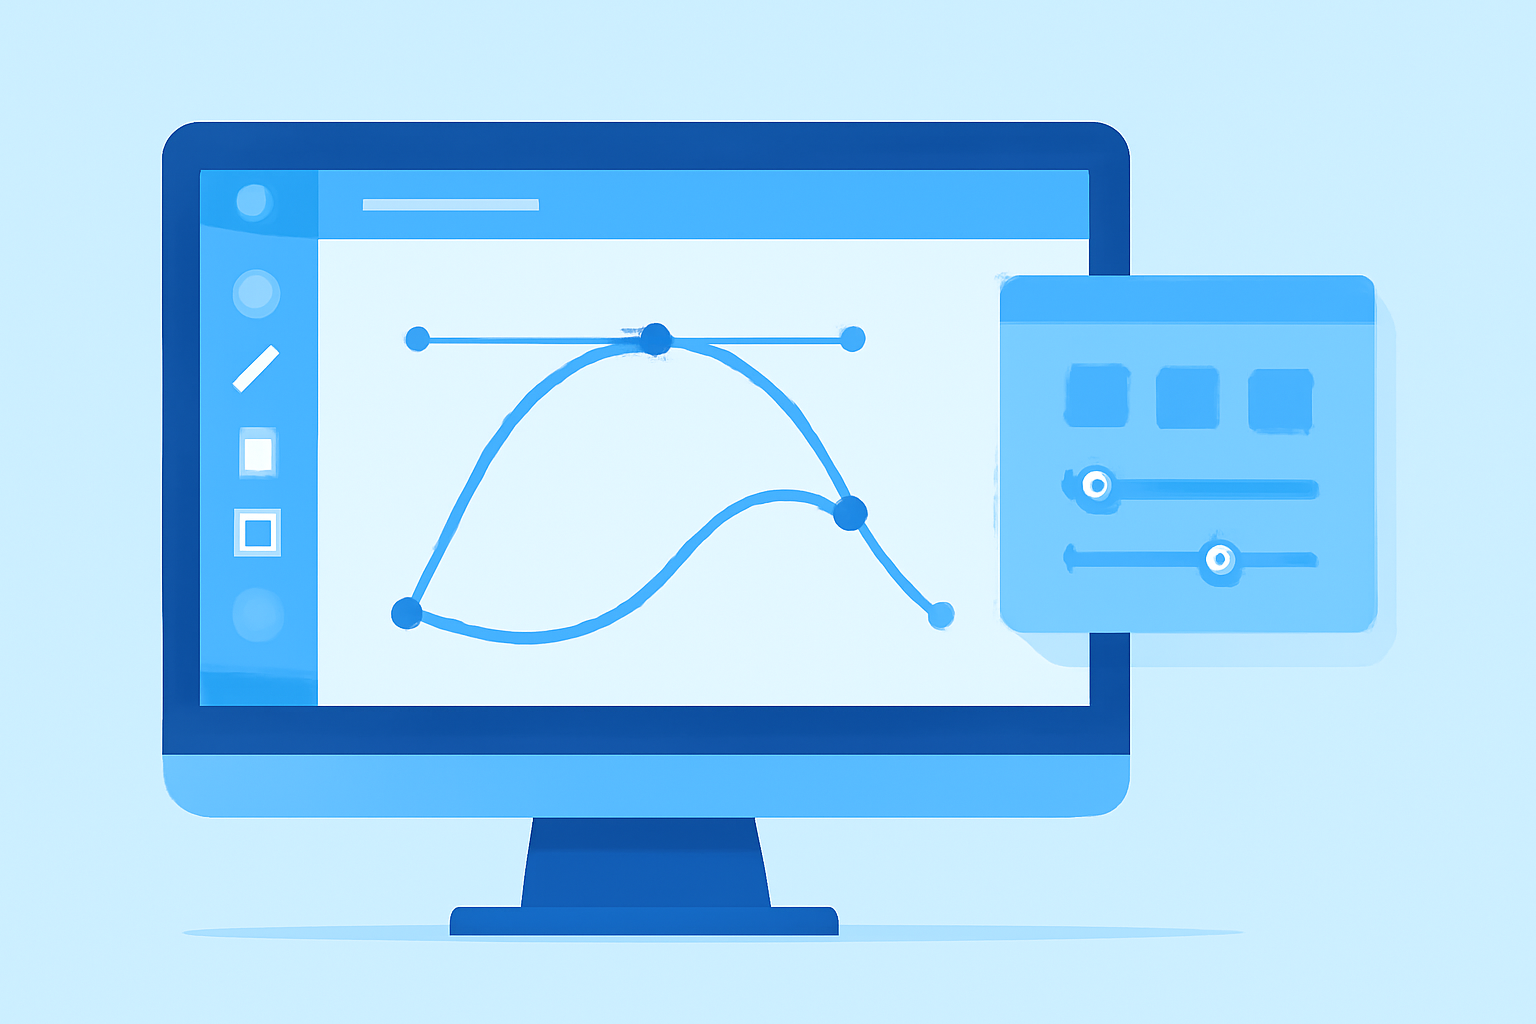
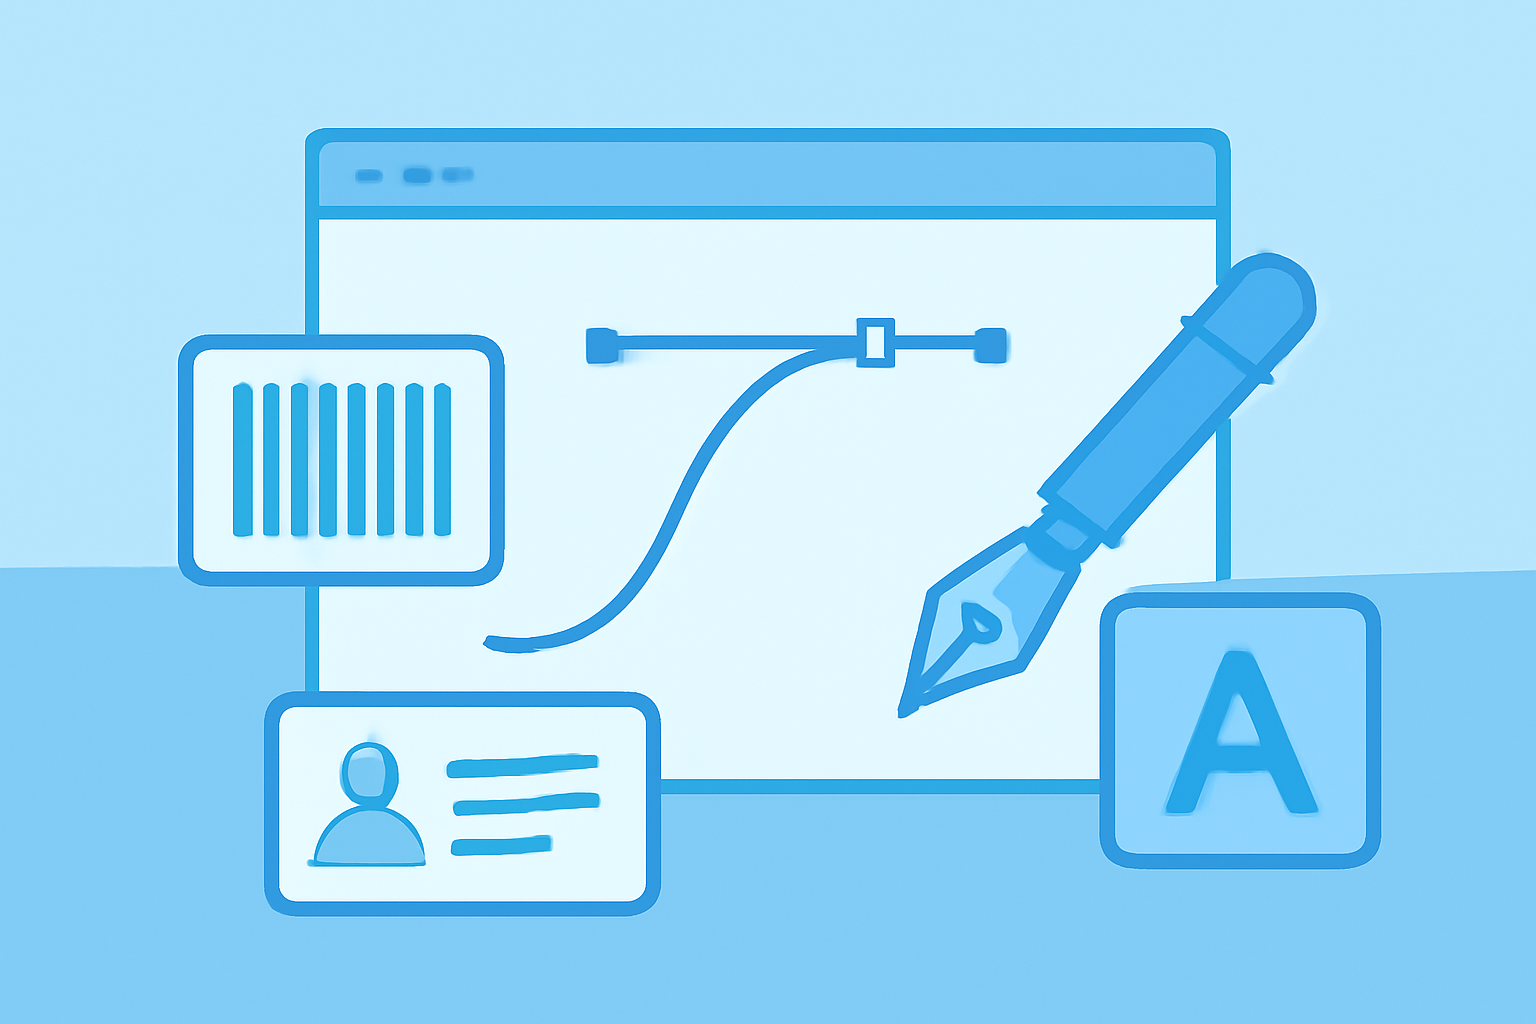
Update site content

diff --git a/themes/almanac/layouts/_default/baseof.html b/themes/almanac/layouts/_default/baseof.html
@@ -59,7 +59,7 @@ footer.site-footer .copyright{border-top:1px solid #1e40af;margin-top:16px;paddi
 <nav>
 <a href="/" {{ if .IsHome }}class="active"{{ end }}>Home</a>
 {{ range .Site.Menus.main }}<a href="{{ .URL | safeURL }}">{{ .Name }}</a>{{ end }}
-{{ with where .Site.RegularPages "Section" "blog" }}{{ if . }}<a href="/blog.html">Blog</a>{{ end }}{{ end }}
+{{ with where .Site.RegularPages "Section" "blog" }}{{ if . }}<a href="/blog/">Blog</a>{{ end }}{{ end }}
 </nav>
 </header>
 <div class="wrap">

diff --git a/content/blog/contact-information-on-employee-id-cards.md b/content/blog/contact-information-on-employee-id-cards.md
@@ -2,7 +2,7 @@
 title: "Should You Include Contact Information on Employee ID Cards"
 description: "Learn why printing personal phone numbers on employee badges creates security risks and discover safer alternatives like department extensions, virtual numbers,"
 url: "/contact-information-on-employee-id-cards.html"
-date: 2026-08-07
+date: 2026-08-10
 weight: 9999
 image: "/images/contact-information-on-employee-id-cards.jpg"
 ---

diff --git a/content/blog/_index.md b/content/blog/_index.md
@@ -1,4 +1,6 @@
 ---
 title: "Articles"
 description: "Latest articles and guides"
+url: /blog/
+aliases: ["/blog.html"]
 ---
